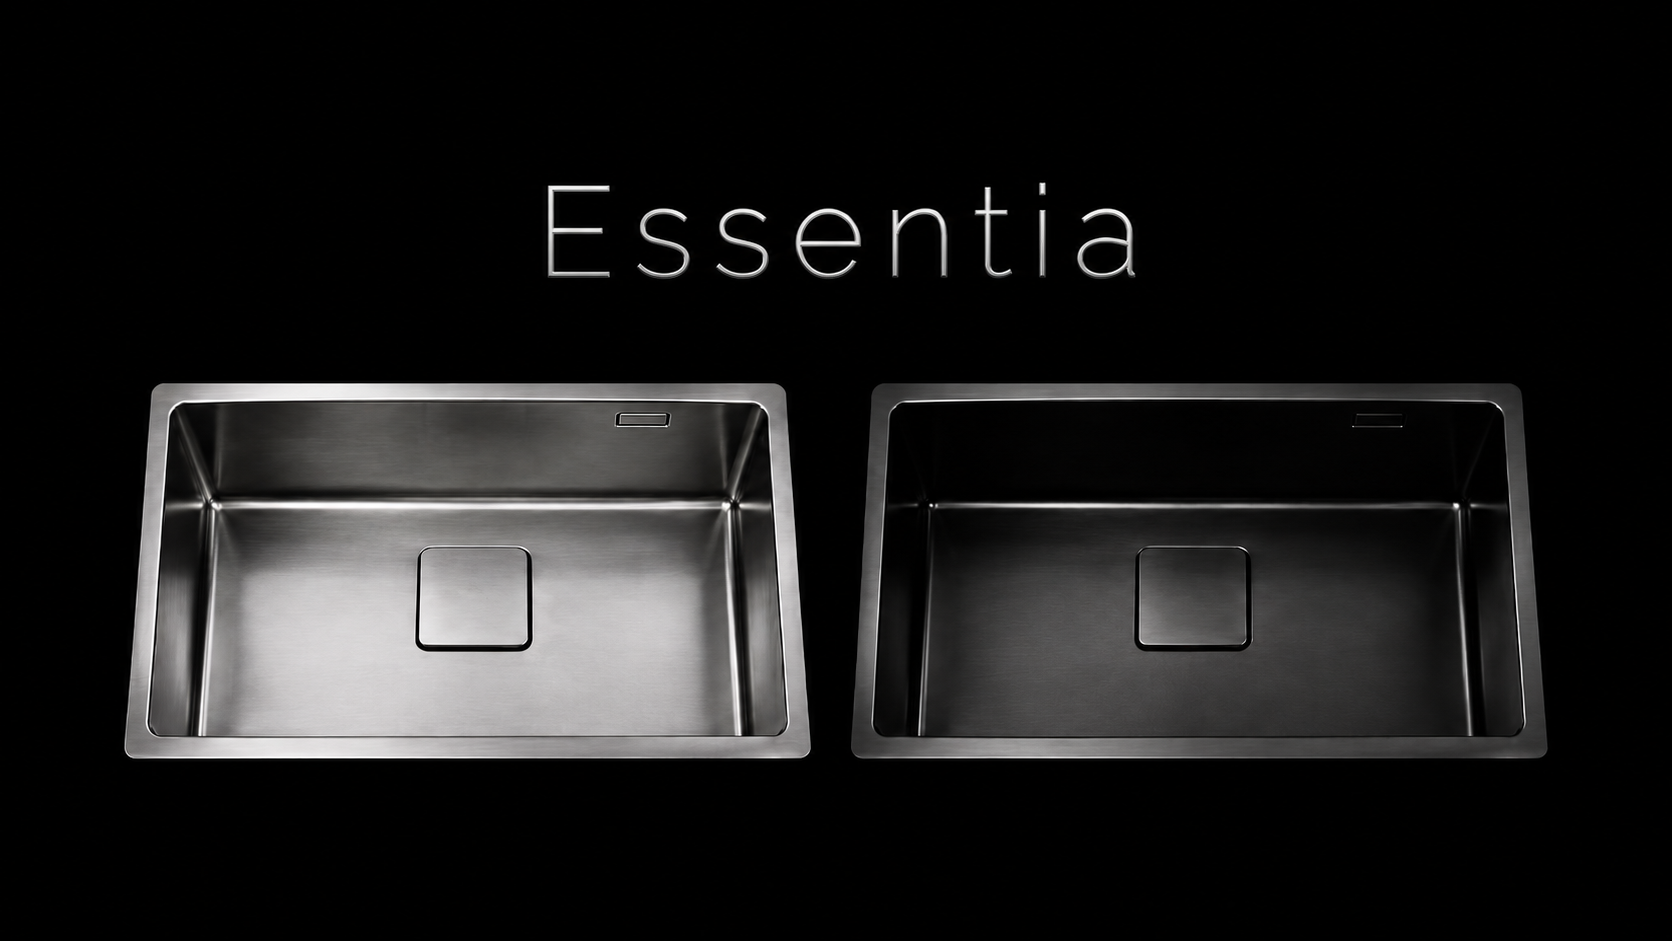
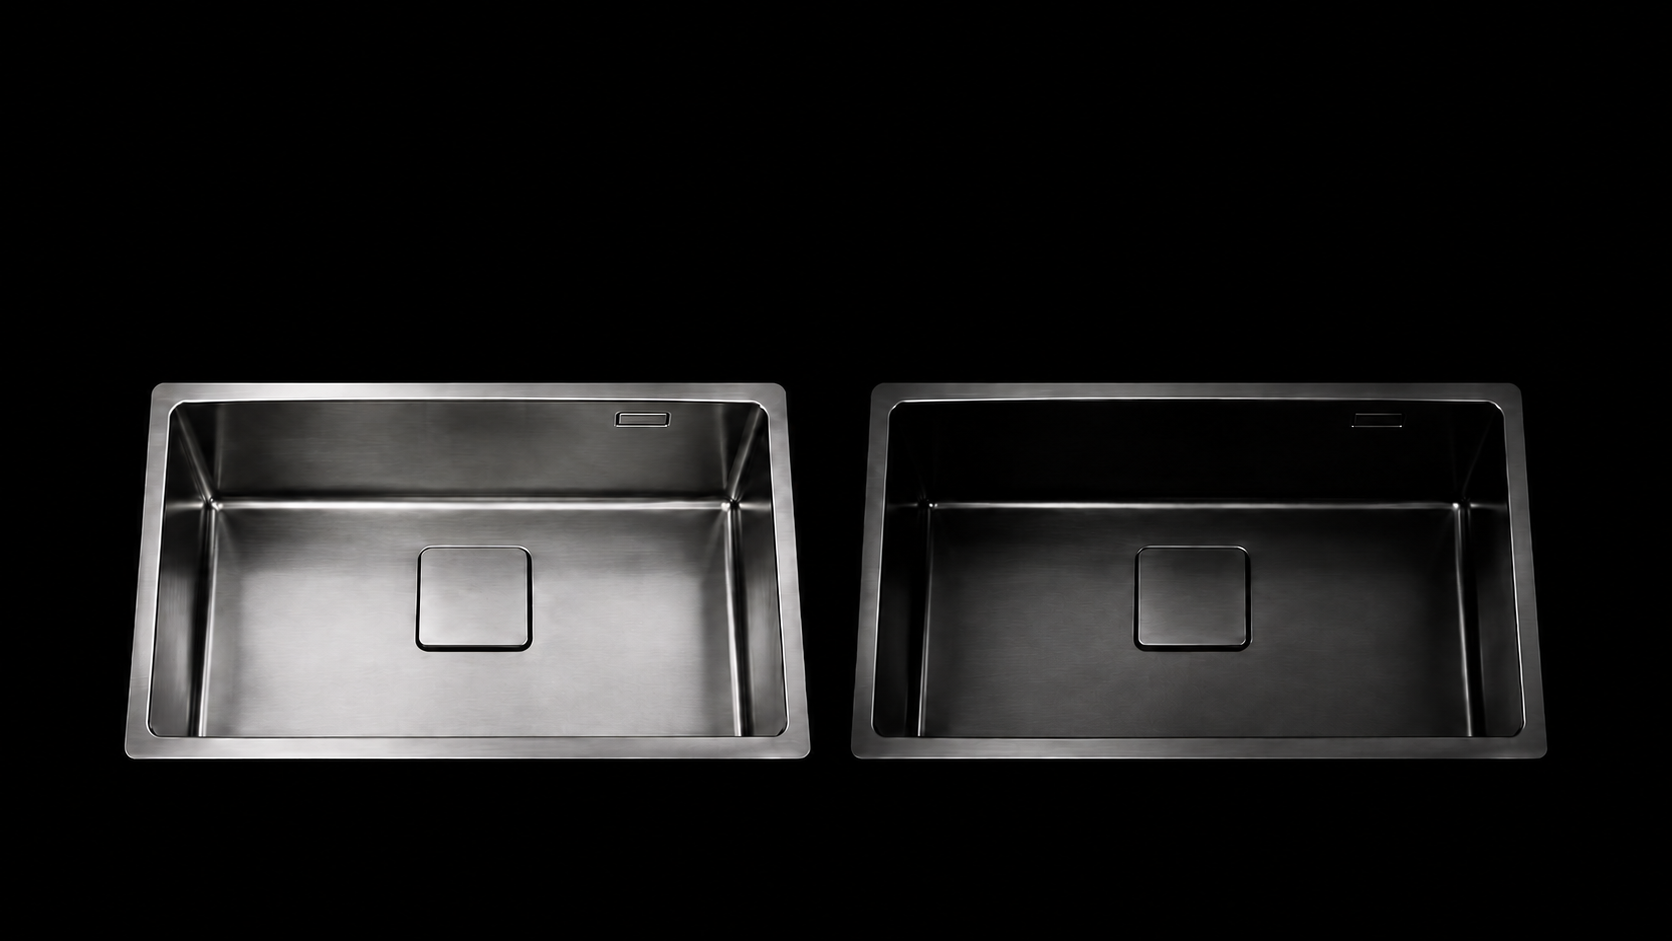
Hero desktop: Essentia como texto real metalico (Raleway Thin) + foto sin texto

diff --git a/index.html b/index.html
@@ -96,9 +96,18 @@
   /* la pileta va arriba (volteada, "al revés"), ancho completo sin negro lateral,
      y abajo el fondo se funde a negro para el texto Essentia */
   .hero{
-    width:100%;aspect-ratio:1672/815;background:#000;
-    background-image:url('assets/essentia-hero.png?v=2');
+    position:relative;width:100%;aspect-ratio:1672/815;background:#000;
+    background-image:url('assets/essentia-hero.png?v=3');
     background-size:cover;background-position:center 78%;background-repeat:no-repeat;
+  }
+  /* "Essentia" como texto real, acero metálico, nítido en cualquier tamaño */
+  .hero-title{
+    position:absolute;left:0;right:0;top:11%;text-align:center;z-index:2;
+    font-family:"Raleway",sans-serif;font-weight:200;
+    font-size:clamp(2.4rem,7vw,7rem);letter-spacing:.16em;line-height:1;
+    background:linear-gradient(180deg,#ffffff 0%,#d6dbe1 16%,#9aa1aa 38%,#676d76 50%,#b3bac3 62%,#f2f5f8 84%,#c2c9d1 100%);
+    -webkit-background-clip:text;background-clip:text;color:transparent;
+    filter:drop-shadow(0 1px 1px rgba(255,255,255,.12)) drop-shadow(0 2px 8px rgba(0,0,0,.5));
   }
 
   /* ---------- video familia (sin marco, flotante) ---------- */
@@ -433,6 +442,7 @@
 
     /* hero banner vertical solo en mobile */
     .hero{aspect-ratio:887/1774;background-image:url('assets/essentia-hero-mobile.png?v=2');}
+    .hero-title{display:none;}
 
     /* hero 3D más compacto, no domina la pantalla */
     .hero-3d .container{padding-top:36px;}
@@ -541,7 +551,7 @@
 <section id="signature" class="section" style="padding-top:0;">
   <a name="signature"></a>
   <!-- hero banner (crossfade) -->
-  <div class="hero" id="hero"></div>
+  <div class="hero" id="hero"><span class="hero-title">Essentia</span></div>
 
   <div class="hero-3d" id="hero-3d">
     <div class="container" style="padding-top:60px;">
